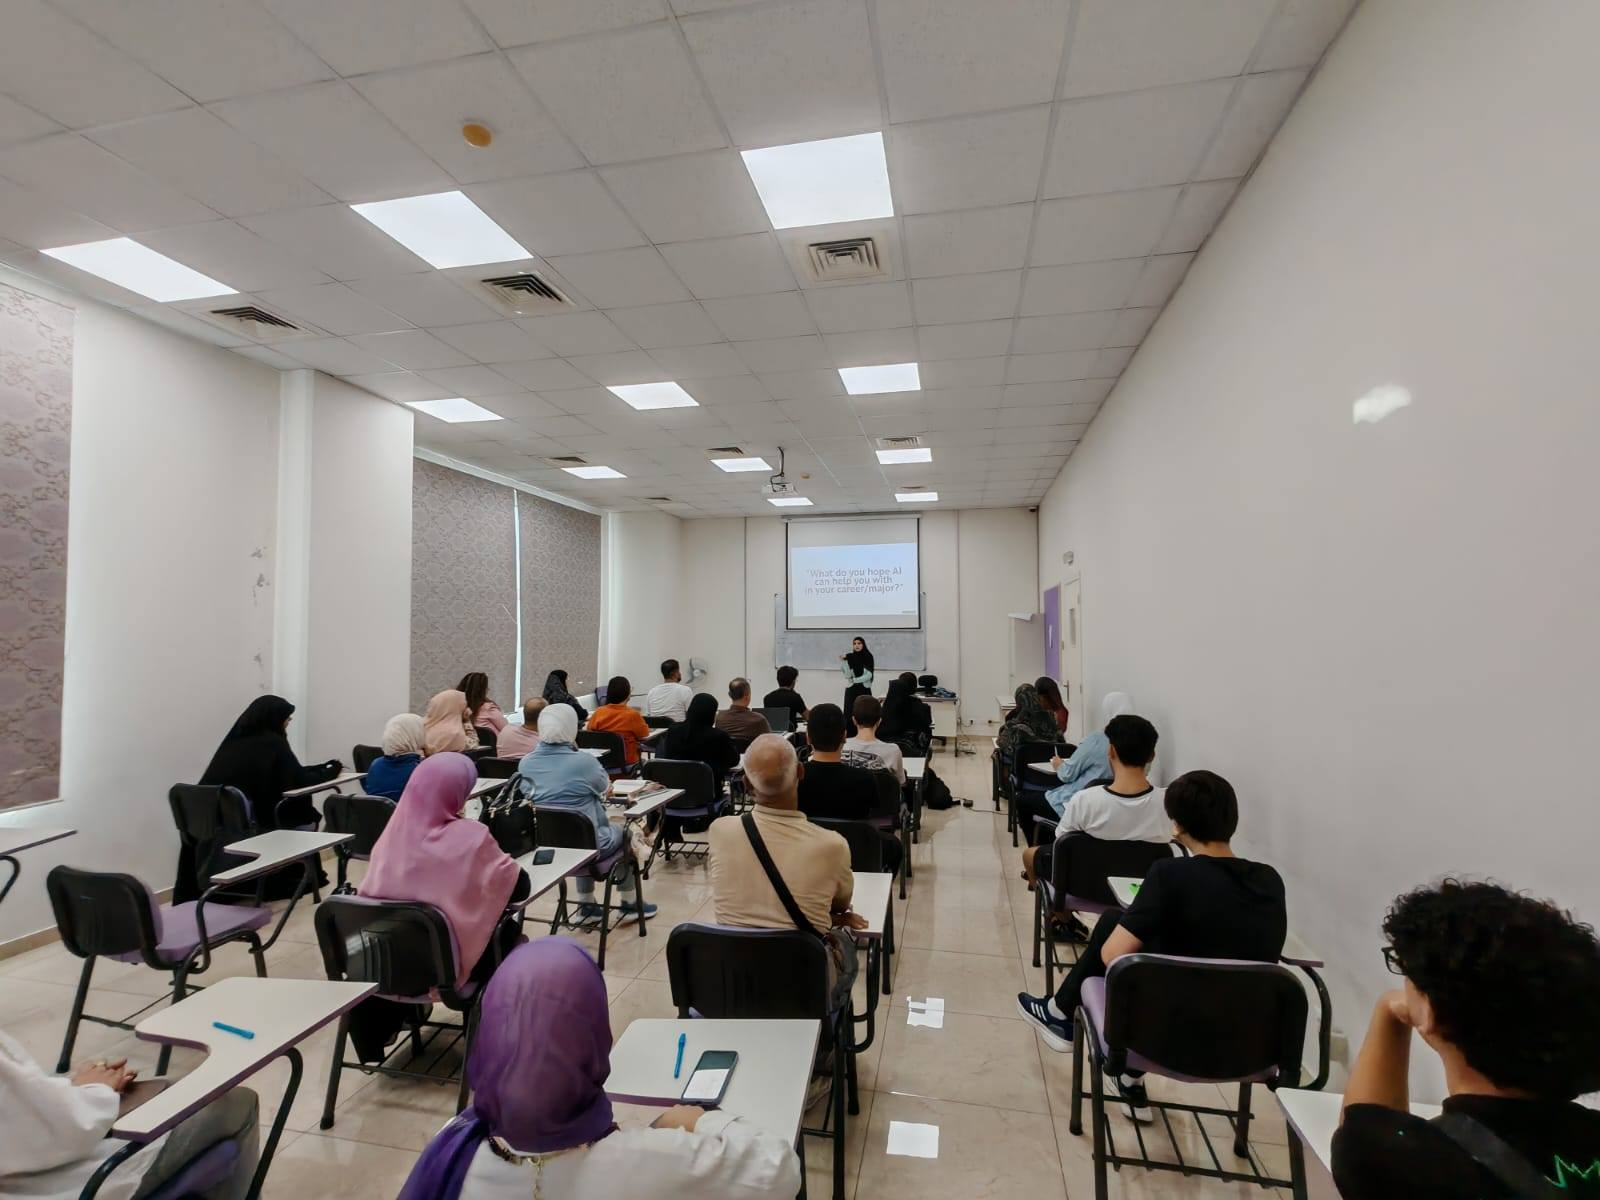
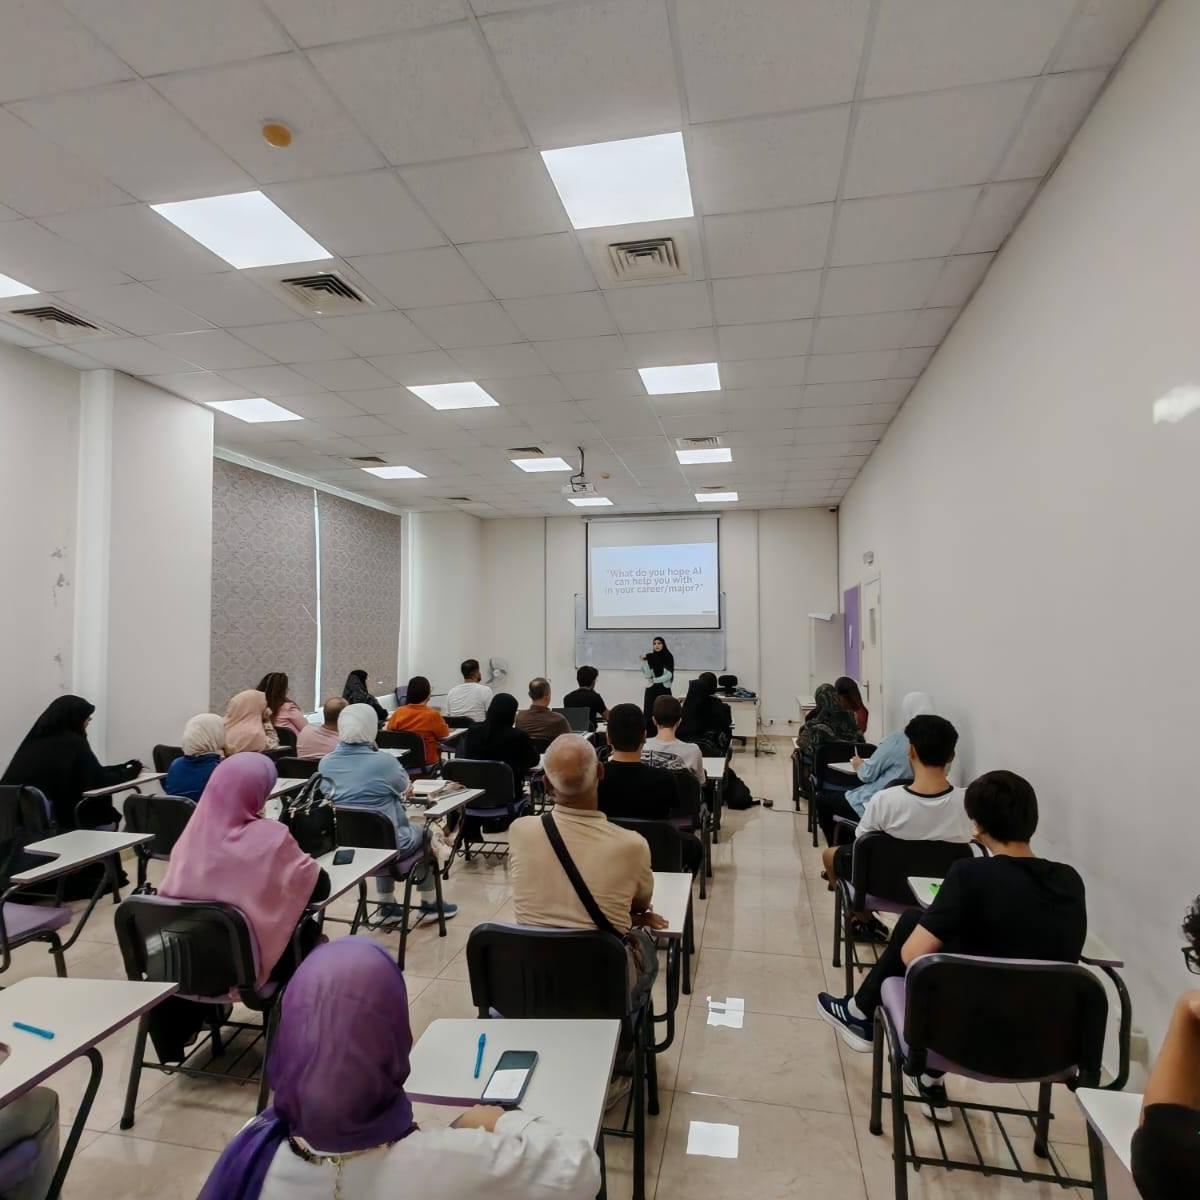
Fixed UI comments

diff --git a/index.html b/index.html
@@ -170,8 +170,9 @@ body::before{content:'';position:fixed;inset:0;pointer-events:none;z-index:0;
 #galleryModal{display:none;position:fixed;inset:0;z-index:9999;background:rgba(0,0,0,.85);align-items:center;justify-content:center}
 #galleryModal.open{display:flex}
 .gm-inner{position:relative;max-width:90vw;max-height:90vh;display:flex;flex-direction:column;align-items:center;gap:12px}
-.gm-img-wrap{position:relative;width:min(780px,90vw)}
-.gm-img-wrap img{width:100%;max-height:70vh;object-fit:contain;border-radius:12px;display:block;box-shadow:0 8px 40px rgba(0,0,0,.6)}
+.gm-img-wrap{position:relative;width:min(620px,80vw,65vh);height:min(620px,80vw,65vh)}
+.gm-img-box{width:100%;height:100%;border-radius:12px;overflow:hidden;box-shadow:0 8px 40px rgba(0,0,0,.6)}
+.gm-img-box img{width:100%;height:100%;object-fit:cover;display:block}
 .gm-arrow{position:absolute;top:50%;transform:translateY(-50%);background:rgba(255,255,255,.15);border:none;color:#fff;font-size:1.6rem;width:42px;height:42px;border-radius:50%;cursor:pointer;transition:background .2s;display:flex;align-items:center;justify-content:center}
 .gm-arrow:hover{background:rgba(255,255,255,.3)}
 .gm-prev{left:-52px}.gm-next{right:-52px}
@@ -219,9 +220,10 @@ body::before{content:'';position:fixed;inset:0;pointer-events:none;z-index:0;
   /* timeline: scroll horizontally so all 9 entries stay legible */
   #tlContainer{overflow-x:auto;-webkit-overflow-scrolling:touch}
   #tlContainer>div{min-width:640px}
-  /* gallery arrows: pull in so they stay on-screen */
-  .gm-prev{left:-32px}
-  .gm-next{right:-32px}
+  /* gallery: smaller square on tablet */
+  .gm-img-wrap{width:min(500px,80vw,65vh);height:min(500px,80vw,65vh)}
+  .gm-prev{left:-36px}
+  .gm-next{right:-36px}
 }
 
 /* ── Small mobile: ≤ 480 px ── */
@@ -240,15 +242,15 @@ body::before{content:'';position:fixed;inset:0;pointer-events:none;z-index:0;
   .ptitle{font-size:.88rem}
   .pbody{font-size:.7rem}
   .pnum{font-size:2rem}
-  /* gallery */
+  /* gallery: compact square on mobile */
   .gm-inner{max-width:98vw}
-  .gm-img-wrap{width:min(98vw,780px)}
-  .gm-prev{left:-24px}
-  .gm-next{right:-24px}
+  .gm-img-wrap{width:min(90vw,400px,65vh);height:min(90vw,400px,65vh)}
+  .gm-prev{left:-28px}
+  .gm-next{right:-28px}
 }
 .gm-dot{width:9px;height:9px;border-radius:50%;background:rgba(255,255,255,.3);border:none;cursor:pointer;transition:background .2s}
 .gm-dot.active{background:#ffc93c}
-.gm-close{position:absolute;top:-38px;right:0;background:none;border:none;color:rgba(255,255,255,.7);font-size:1.5rem;cursor:pointer;line-height:1}
+.gm-close{position:absolute;top:10px;right:10px;background:rgba(0,0,0,.45);border:none;color:rgba(255,255,255,.85);font-size:1.3rem;cursor:pointer;line-height:1;border-radius:50%;width:32px;height:32px;display:flex;align-items:center;justify-content:center;z-index:2}
 .gm-close:hover{color:#fff}
 a.gallery-link{color:#ffc93c;font-weight:700;font-size:.72rem;text-decoration:none;margin-left:6px;border:1px solid rgba(255,201,60,.4);padding:1px 7px;border-radius:99px;white-space:nowrap;transition:background .2s}
 a.gallery-link:hover{background:rgba(255,201,60,.15)}
@@ -398,14 +400,14 @@ a.gallery-link:hover{background:rgba(255,201,60,.15)}
       </div>
       <span class="acc-card-cta" style="color:var(--teal)">View ›</span>
     </button>
-    <button class="acc-card acc-card-violet" id="btnHobbies" type="button">
+    <a class="acc-card acc-card-violet" href="https://t.me/batouldiabbot" target="_blank" rel="noopener noreferrer" style="text-decoration:none">
       <div class="acc-card-icon">🎨</div>
       <div class="acc-card-text">
         <div class="acc-card-title" style="color:var(--violet)">Hobbies</div>
         <div class="acc-card-sub">Painting · Poetry · Writing</div>
       </div>
-      <span class="acc-card-cta" style="color:var(--violet)">View ›</span>
-    </button>
+      <span class="acc-card-cta" style="color:var(--violet)">View in Telegram ›</span>
+    </a>
   </div>
 </div>
 
@@ -554,7 +556,7 @@ a.gallery-link:hover{background:rgba(255,201,60,.15)}
 
   <div class="pcard" style="background:linear-gradient(135deg,rgba(255,201,60,.07),rgba(255,201,60,.02));border-color:rgba(255,201,60,.35)">
     <div class="pnum" style="color:#ffc93c">03</div>
-    <span class="picon">♀</span>
+    <span class="picon">👩💻</span>
     <div class="ptitle" style="color:#ffc93c">Education &amp; Women's Empowerment — AI as a Lever for Humanity <a href="#" class="gallery-link" onclick="openGallery();return false;">[Gallery]</a></div> 
     <div class="pbody">
       Beyond the technical: Batoul teaches <strong>Science, Technology, Engineering, Arts &amp; Mathematics (STEAM) robotics and 3D-printing to children</strong> and trains women and university students in
@@ -734,8 +736,7 @@ document.getElementById('gaugeSlider').addEventListener('input',function(){rende
     {id:11,shape:'rect',  l:'HuggingFace',     rw:52,rh:20, x:658, y:223, c:'#7dd3fc', tip:'Pre-trained transformer models — fine-tuning & embeddings.'},
     {id:24,shape:'rect',  l:'React / Next.js', rw:58,rh:20, x:658, y:313, c:'#ff5f6d', tip:'ReactJS dashboards + Next.js RAG chatbot frontend.'},
     {id:19,shape:'rect',  l:'FastAPI / Flask', rw:58,rh:20, x:658, y:370, c:'#c4b5fd', tip:'Python REST API frameworks for serving ML models in production.'},
-    {id:13,shape:'rect',  l:'Gemini & Fanar',  rw:60,rh:20, x:792, y:143, c:'#7dd3fc', tip:'Gemini (Google) + Fanar (Arabic LLM) — multilingual NLP at UN ESCWA.'},
-    {id:12,shape:'rect',  l:'GPT-4 / OpenAI',  rw:60,rh:20, x:792, y:193, c:'#7dd3fc', tip:'GPT-4 API integrated into production RAG pipeline.'},
+    {id:13,shape:'rect',  l:'GPT / Gemini / Fanar',  rw:74,rh:20, x:792, y:168, c:'#7dd3fc', tip:'GPT (OpenAI) integrated into production RAG pipeline; Gemini (Google) + Fanar (Arabic LLM) — multilingual NLP at UN ESCWA.'},
     {id:25,shape:'rect',  l:'TypeScript',      rw:50,rh:20, x:792, y:263, c:'#fca5a5', tip:'Strongly-typed JS — GOVA Group backend services.'},
     {id:17,shape:'rect',  l:'CI / CD',         rw:34,rh:20, x:792, y:318, c:'#c4b5fd', tip:'Continuous Integration/Deployment via GitHub Actions.'},
     {id:15,shape:'rect',  l:'MLflow',          rw:38,rh:20, x:200, y:423, c:'#c4b5fd', tip:'Experiment tracking, model versioning, deployment lifecycle.'},
@@ -745,10 +746,10 @@ document.getElementById('gaugeSlider').addEventListener('input',function(){rende
   const links=[
     [0,1],[0,7],[0,14],[0,20],[0,23],[0,10],
     [1,2],[1,3],[1,4],[1,5],[1,6],[1,20],[1,14],
-    [7,8],[7,9],[7,10],[7,23],[8,9],[8,10],[8,13],[9,10],[10,11],[10,12],[10,13],
+    [7,8],[7,9],[7,10],[7,23],[8,9],[8,10],[8,13],[9,10],[10,11],[10,13],
     [14,15],[14,16],[14,17],[14,18],[16,17],[16,19],[17,19],
     [20,21],[20,22],[20,7],[20,5],
-    [24,25],[24,16],[24,19],[25,12],[23,20],[23,7],[5,3],
+    [24,25],[24,16],[24,19],[25,13],[23,20],[23,7],[5,3],
   ];
 
   const nodeMap={};nodes.forEach(n=>nodeMap[n.id]=n);
@@ -901,7 +902,7 @@ document.getElementById('gaugeSlider').addEventListener('input',function(){rende
   let h=`<div style="position:relative"><div style="height:3px;background:linear-gradient(90deg,${gc});border-radius:2px;position:relative">`;
   jobs.forEach((j,i)=>{
     const pct=(i/(jobs.length-1)*100).toFixed(1);
-    h+=`<div data-tip="${j.tip.replace(/"/g,'&quot;')}" data-label="${j.role} · ${j.org}" data-c="${j.c}" style="position:absolute;left:${pct}%;top:50%;transform:translate(-50%,-50%);width:11px;height:11px;border-radius:50%;background:${j.c};border:2px solid #04080f;box-shadow:0 0 6px ${j.c};cursor:help"></div>`;
+    h+=`<div data-tip="${j.tip.replace(/"/g,'&quot;')}" data-label="${j.role} · ${j.org}" data-c="${j.c}" style="position:absolute;left:${pct}%;top:50%;transform:translate(-50%,-50%);width:11px;height:11px;border-radius:50%;background:${j.c};border:2px solid #04080f;box-shadow:0 0 6px ${j.c};cursor:default"></div>`;
   });
   h+=`</div><div style="display:grid;grid-template-columns:repeat(${jobs.length},1fr);gap:0;margin-top:7px">`;
   jobs.forEach((j,i)=>{
@@ -1036,6 +1037,16 @@ function openAccModal(type) {
       var row = document.createElement('div');
       row.className = 'acc-item';
       row.innerHTML = '<div class="acc-dot" style="color:' + it.dot + ';background:' + it.dot + '"></div><span>' + it.html + '</span>';
+      var hrefMatch = it.html.match(/href="([^"]+)"/);
+      if (hrefMatch) {
+        row.style.cursor = 'pointer';
+        row.classList.add('acc-item-link');
+        (function(url) {
+          row.addEventListener('click', function(e) {
+            if (e.target.tagName !== 'A') window.open(url, '_blank', 'noopener,noreferrer');
+          });
+        })(hrefMatch[1]);
+      }
       body.appendChild(row);
     });
   }
@@ -1050,7 +1061,7 @@ function closeAccModal() {
 <div id="galleryModal" role="dialog" aria-modal="true" aria-label="Teaching Gallery">
   <div class="gm-inner">
     <div class="gm-img-wrap">
-      <img id="galImg" src="teaching1.jpg" alt="Teaching photo">
+      <div class="gm-img-box"><img id="galImg" src="teaching1.jpg" alt="Teaching photo"></div>
       <button class="gm-arrow gm-prev" onclick="galPrev()" aria-label="Previous">&#8249;</button>
       <button class="gm-arrow gm-next" onclick="galNext()" aria-label="Next">&#8250;</button>
       <button class="gm-close" onclick="closeGallery()" aria-label="Close">&#10005;</button>
@@ -1067,7 +1078,6 @@ function closeAccModal() {
 document.getElementById('galleryModal').addEventListener('click',function(e){if(e.target===this)closeGallery();});
 // Section modal wiring
 document.getElementById('btnVol').addEventListener('click', function() { openAccModal('vol'); });
-document.getElementById('btnHobbies').addEventListener('click', function() { openAccModal('hobbies'); });
 document.getElementById('accModal').addEventListener('click', function(e) { if(e.target===this) closeAccModal(); });
 document.addEventListener('keydown', function(e) {
   if(e.key==='Escape' && document.getElementById('accModal').classList.contains('open')) closeAccModal();
